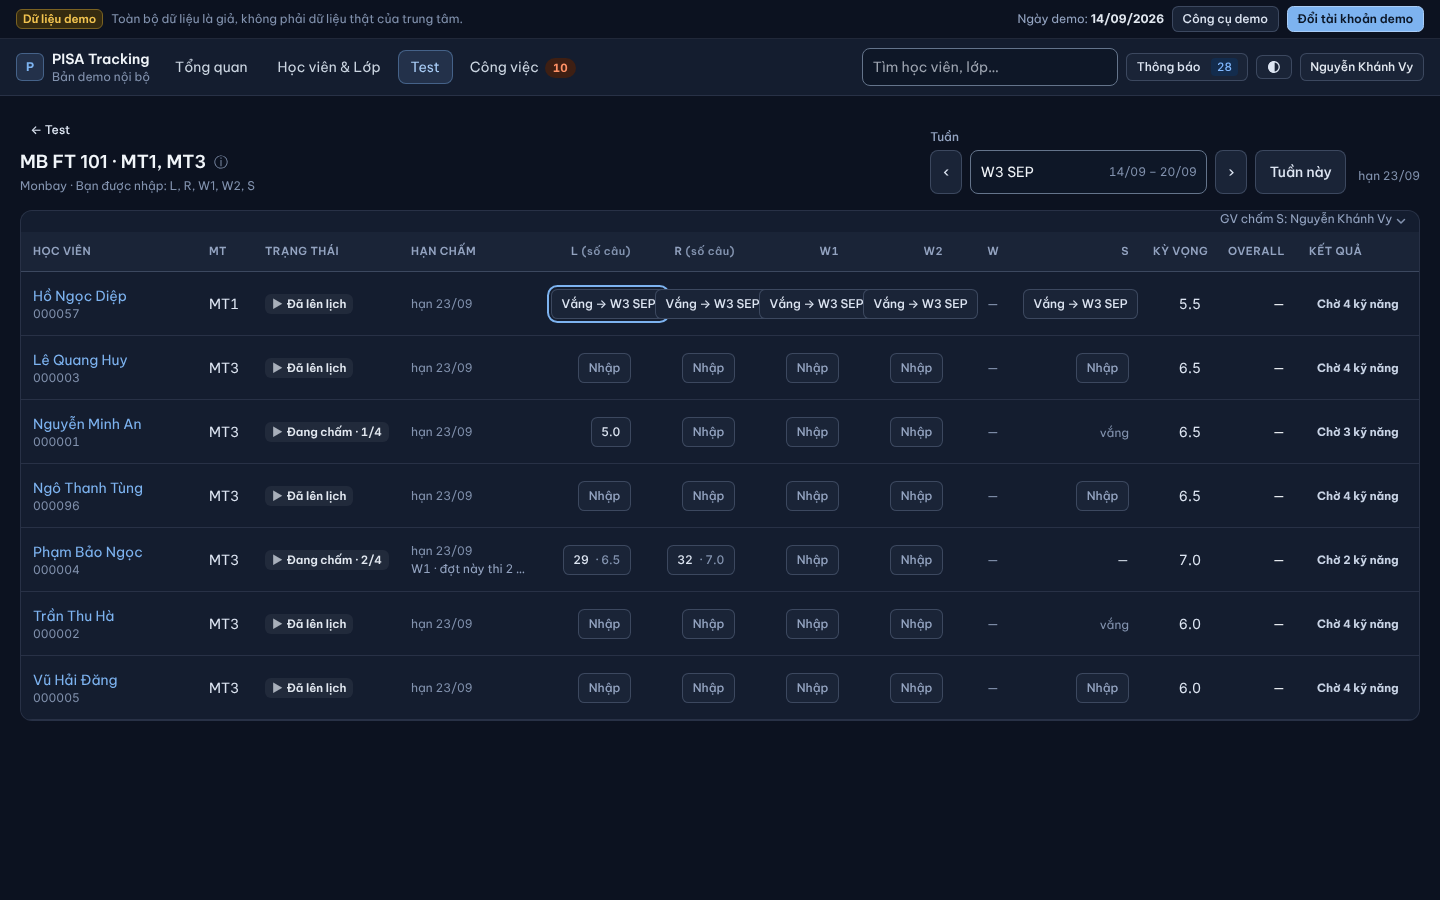
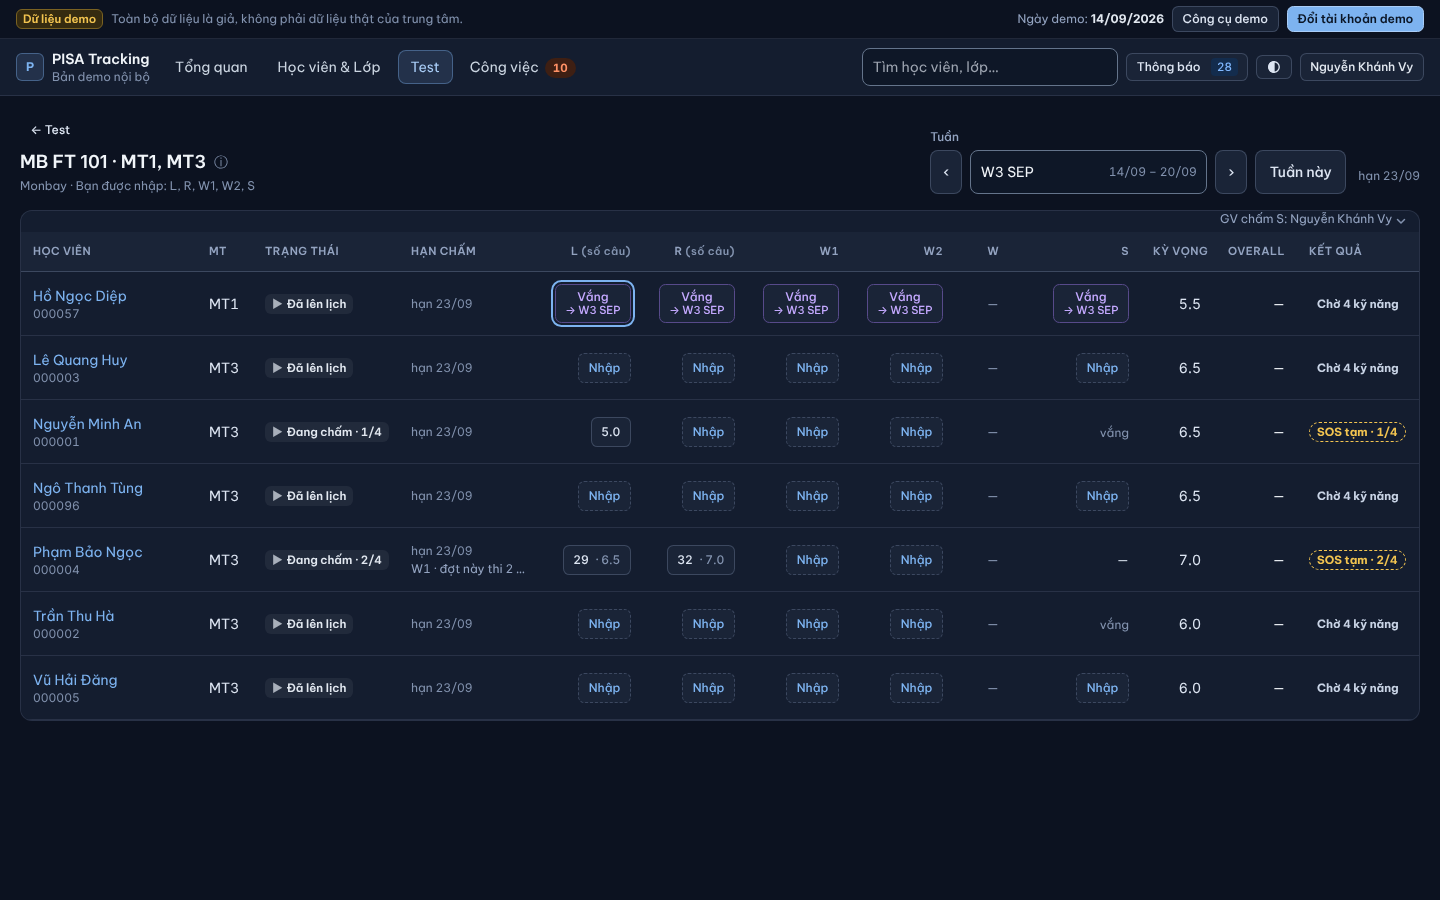
OV-1c: ô điểm lưới MT theo mockup + chip "SOS tạm · a/4"
- Ô vắng tím hai dòng (không tràn cột 104 px), ô trống "Nhập" viền đứt màu nhấn, ô huỷ viền chấm (mockup 11/10 .od.vang/.trong/.huy)
- Cột Kết quả: lượt chưa chốt có SOS → chip vàng viền đứt "SOS tạm · a/4"
- Ảnh bấm thử thiet-ke/anh/pr-ov1c/

Claude-Session: https://claude.ai/code/session_01MEP9kGZeLPuL5sAauzcEMS

diff --git a/web/src/modules/fasttrack/HopNhapDiem.tsx b/web/src/modules/fasttrack/HopNhapDiem.tsx
@@ -80,6 +80,16 @@ function DongDau({ cell }: { cell: Cell }) {
 }
 
 /**
+ * KIỂU Ô theo mockup duyệt 11/10 (`.od.vang` · `.od.trong` · `.od.huy`): vắng tím chờ, trống "Nhập" viền đứt màu nhấn, huỷ viền chấm mờ.
+ * Ô vắng hai dòng ("Vắng" / "→ W3 SEP") để vừa cột 104 px của lưới (bảng `table-layout: fixed`).
+ */
+const KIEU_O = {
+  vang: 'flex-col !gap-0 leading-tight border-[color:rgb(var(--wait-line-rgb))] text-[color:rgb(var(--wait-rgb))]',
+  trong: 'justify-center border-dashed text-[color:var(--accent)]',
+  huy: 'border-dotted text-slate-500',
+} as const;
+
+/**
  * Ô ĐIỂM MT: nút mở hộp; ô không mở được là chữ (E5: không viền, không mờ) có câu "vì sao" ở tooltip.
  * `mo` do nơi gọi giữ (lưới / danh sách: một hộp một lúc, "em tiếp" chuyển sang dòng kế).
  */
@@ -100,14 +110,15 @@ export function ODiemMt({ cell, lon = false, mo, onMo, ...hop }: Omit<HopProps, 
       </span>
     );
   }
+  const kieu = cell.progress === 'cancelled' ? 'huy' : cell.daChot?.doiSang ? 'vang' : chu === null ? 'trong' : null;
   return (
-    <span className="inline-flex flex-col items-end gap-0.5">
+    <span className="inline-flex max-w-full flex-col items-end gap-0.5">
       <button ref={setNeo} type="button" aria-expanded={mo} aria-haspopup="dialog"
         aria-label={`${skillLabel(cell.skill)} · ${hop.ctx.tenHv}: ${cell.rawScore !== null ? `${cell.rawScore} câu, band ${fmtBand(cell.band)}` : typeof chu === 'string' ? chu : 'Nhập'}`}
-        className={`btn tabular-nums ${lon ? 'min-h-[44px] min-w-[60px] justify-center text-base font-semibold' : 'btn-sm'} ${chu === null ? 'text-slate-400' : ''} ${mo ? 'border-[color:var(--accent)]' : ''}`}
+        className={`btn max-w-full tabular-nums ${lon ? 'min-h-[44px] min-w-[60px] justify-center text-base font-semibold' : 'btn-sm'} ${kieu ? KIEU_O[kieu] : ''} ${mo ? 'border-[color:var(--accent)]' : ''}`}
         title={cell.noShow?.text ?? `${skillLabel(cell.skill)} — bấm để nhập`}
         onClick={() => onMo(!mo)}>
-        {chu ?? 'Nhập'}
+        {kieu === 'vang' ? <><span>Vắng</span><span className="text-[11px]">→ {cell.daChot!.doiSang}</span></> : chu ?? 'Nhập'}
       </button>
       <DongDau cell={cell} />
       {mo && neo && <HopNhapDiem cell={cell} anchor={neo} onDong={() => onMo(false)} {...hop} />}

diff --git a/web/src/modules/cham/LuoiFT.tsx b/web/src/modules/cham/LuoiFT.tsx
@@ -350,12 +350,13 @@ function SheetRow({ row, lop, active, cot, tuanDangXem, onReload, gvMacDinh, moS
               : row.result.complete ? <Level tone="ok">MT0 ✓</Level>
               : <Level tone="muted">{`Chờ ${row.result.required.length - row.result.scoredRequired} kỹ năng`}</Level>
           ) : (
-            /* OV-1c: lượt CHỐT (đủ điểm, hoặc kỹ năng thiếu đã dời / huỷ / Không dự thi) mới có mức SOS — cờ của máy chủ, không suy từ số ô. */
-            <Level tone={row.result.chot && row.result.sosLevel !== null ? sosTone(row.result.sosLevel) : 'muted'}>
-              {row.result.chot && row.result.sosLevel !== null
-                ? sosLabel(row.result.sosLevel)
-                : `Chờ ${row.result.required.length - row.result.scoredRequired} kỹ năng`}
-            </Level>
+            /* OV-1c: lượt CHỐT (đủ điểm, hoặc kỹ năng thiếu đã dời / huỷ / Không dự thi) mới có mức SOS — cờ của máy chủ, không suy từ số ô.
+               Chưa chốt mà đã có SOS → chip "SOS tạm · a/4" vàng viền đứt (mockup 11/10). */
+            row.result.chot && row.result.sosLevel !== null ? <Level tone={sosTone(row.result.sosLevel)}>{sosLabel(row.result.sosLevel)}</Level>
+              : row.result.provisional && (row.result.sosLevel ?? 0) > 0
+                ? <Level tone="warn" dut title={`SOS tạm thời: mới có ${row.result.scoredRequired}/${row.result.required.length} kỹ năng`}>
+                  SOS tạm · {row.result.scoredRequired}/{row.result.required.length}</Level>
+                : <Level tone="muted">{`Chờ ${row.result.required.length - row.result.scoredRequired} kỹ năng`}</Level>
           )}
           {row.result.scopeNote && (
             <span className="text-xs text-slate-500 truncate max-w-full" title={row.result.scopeDetail ?? row.result.scopeNote}>

diff --git a/plan.md b/plan.md
@@ -317,7 +317,7 @@ Nhật ký chi tiết tới 04/10 ở `git show 575e898d:plan.md` (mục 14) và
 
 | Ngày | PR / nhánh · model | Kết quả |
 |---|---|---|
-| 12/10/2026 | OV-1c (Opus 5.5) · `claude/dazzling-albattani-24iilg` | SOS MT tạm thời → chốt → xoá: cờ `chot` (`kyNangXongThieu`: dời / huỷ / Không dự thi), chưa chốt không Case; Overall ≥ kỳ vọng = không SOS; xoá SOS đóng "Overall đạt" / giữ + mốc; mọi màn đọc `chot`; migrate `prOv1c` + `kiem-truoc-ov1c`; seed demo chốt |
+| 12/10/2026 | OV-1c (Opus 5.5) · `claude/dazzling-albattani-24iilg` | SOS MT tạm thời → chốt → xoá: cờ `chot` (`kyNangXongThieu`: dời / huỷ / Không dự thi), chưa chốt không Case; Overall ≥ kỳ vọng = không SOS; xoá SOS đóng "Overall đạt" / giữ + mốc; mọi màn đọc `chot`; migrate `prOv1c` + `kiem-truoc-ov1c`; seed demo chốt; ô điểm lưới theo mockup (vắng tím 2 dòng · trống viền đứt · huỷ viền chấm) + chip "SOS tạm · a/4" |
 | 12/10/2026 | OV-6b1 (Opus 5.5) · `claude/pensive-knuth-qt9uk0` | Quản trị › Chương trình: bảng + panel sửa (Tên, Đạt từ, số tuần, mốc / tuần MT LT1 LT2 RF), áp lớp mở sau; bản chụp `classes.lich_mt` + `nguong_dat`; tuần MT FT + ngưỡng đạt đọc bản chụp lớp; migrate `prOv6b1` điền mọi lớp cũ |
 | 12/10 | OV-4b `claude/peaceful-galileo-kc1jh5` · Opus 5.5 | Hộp nhập điểm MT chung (`HopNhapDiem`: L/R/W1/W2/S/MT0, Lưu · em tiếp, ô Vắng + Bỏ vắng, lỗi giữ chữ) thay CriteriaModal / InlineScoreEditor / ô gõ L/R; nhận xét 4 kỹ năng + lớp thường (nút Nhận xét). |
 | 12/10/2026 | OV-4a (Opus 5.5) · `claude/peaceful-clarke-xsn9zr` | Huỷ cả lượt MT cất điểm + lịch + danh sách đóng vào `ket_qua_huy` (`huy_luot`, migrate `prOv4`), đóng Case sinh riêng / PA "Chưa đủ dữ liệu" / Phối hợp; Khôi phục lượt (`/reopen`) về nguyên trạng, chặn khi đã xếp MT mới, kèm bản dời vượt treo (ca MT4 Ngọc); ô "MT2 · Đã huỷ" ở Kế hoạch Test / Lộ trình; Admin không nút |
